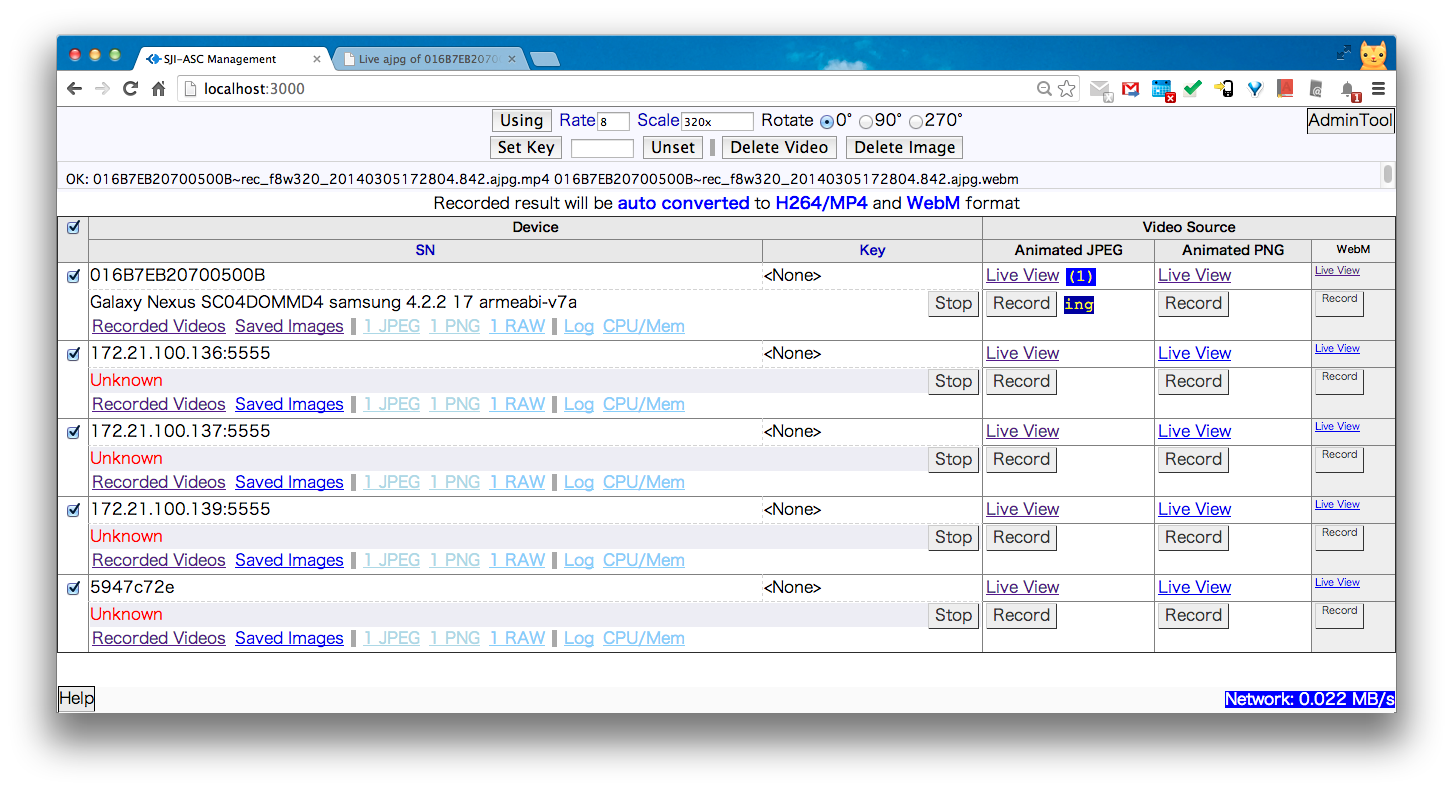
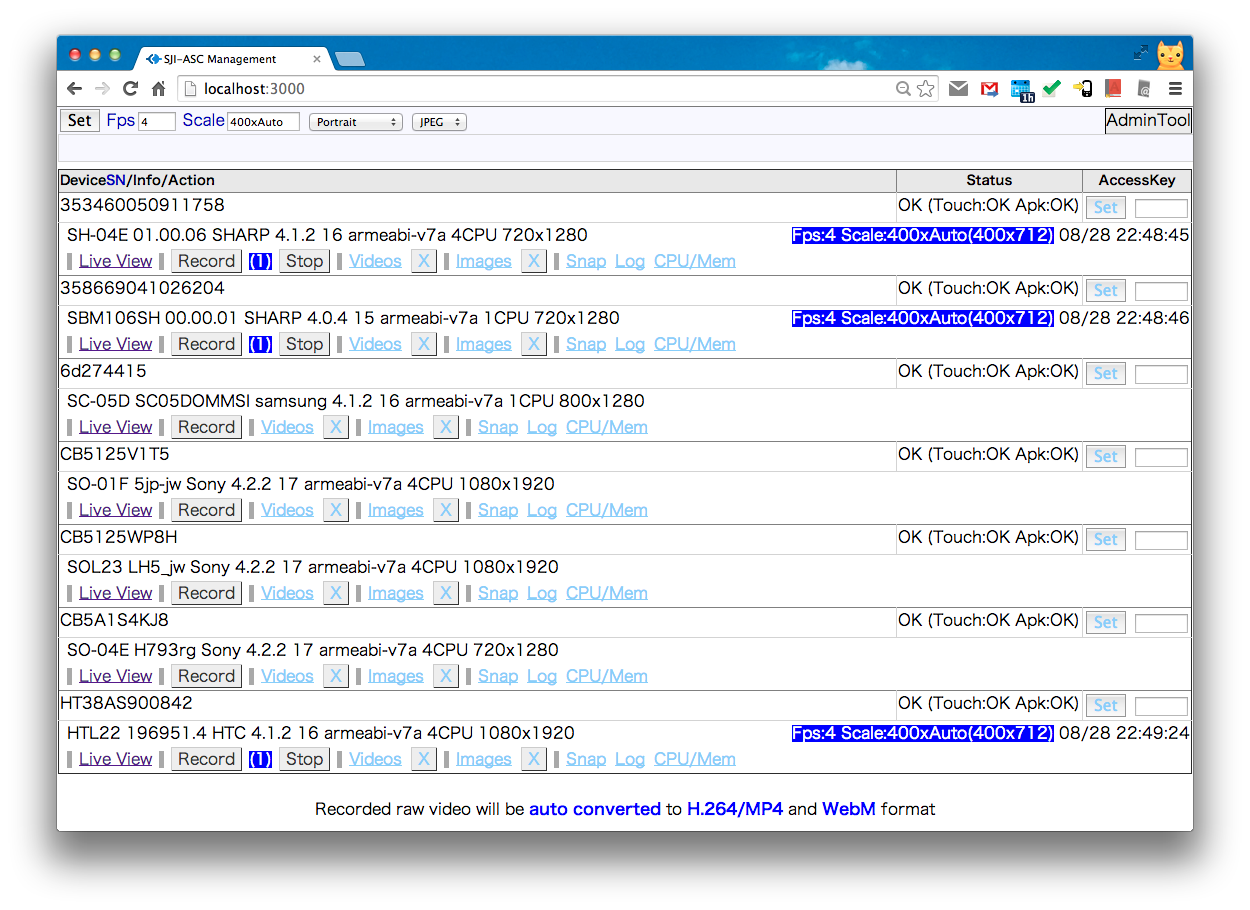
doc

Changed region(s): [[0.0312, 0.0303, 0.9672, 0.9394], [0.5928, 0.303, 0.624, 0.3333]]

diff --git a/README.md b/README.md
@@ -2,7 +2,7 @@ sji-android-screen-capture
 ==========================
 
 No-Root-Needed Android Fast Screen Capture & Caster & Recorder & Remote Controller From PC's Browser
-This project is aimed to provide a fast way to capture android screen and live view,share,record,remote control it from PC's HTML5 browser.
+This project is aimed to provide a fast way to capture android screen and view,record,remote control it from PC's HTML5 browser.
 No Root Required: You need NOT root your android device)
 It's real time (can encode 4+ frames/second for 1920x1080 screen. If shrink size to 320xauto image, can encode at 8+ frames/second). And it's low bandwidth usage (typically 150,000 bytes/second). This product will do encoding in host and android by ffmpeg. Support Chrome, Firefox, Safari. Windows/Mac/Linux/Unix
 
@@ -20,6 +20,8 @@ New: We will enhance performance to 30 frames/second full screen in about 2 mont
 
 Menu<br>
 <img src="doc/screenshot-menu.png" /><br>
+Menu(AdminTool)<br>
+<img src="doc/AdminTool.png" /><br>
 Live View<br>
 <img src="doc/liveview.png" /><br>
 Recorded Videos<br>
@@ -33,15 +35,15 @@ Recorded Videos<br>
 Install android USB driver automatically or manually when you first plug Android into PC.
 If you want to always record as H.264/MP4 or WebM video format, you need <a href="http://www.ffmpeg.org/download.html">install FFMPEG into PC</a>.
 </code></pre>
-To simplify other settings, you'd better put the directory of adb and local ffmpeg into PATH environment variable otherwise you need put the fullpath of them into "adb" and "ffmpeg" settings in stream.json file.
+To simplify other settings, you'd better put the directory of adb and local ffmpeg into PATH environment variable otherwise you need put the fullpath of them into "adb" and "ffmpeg" settings in config.json file.
 <br><br>
 2.<b>Start Android Screen Capture (include a video stream server) on PC</b>
 <pre><code>
 node dir_of_this_project/bin/stream.js
 </code></pre>
-You can edit configuration file <a href="https://raw.github.com/sjitech/sji-android-screen-capture/master/bin/stream.json">stream.json</a> to change IP, port, SSL...
+You can edit configuration file <a href="bin/config.json">config.json</a> to change IP, port, SSL...
 <br><br>
-Or you can specify your own configuration file which can be copied from config.json file in this dir.
+Or you can specify your own configuration file which can be partially copied from config.json file in this dir.
 <pre><code>
 node dir_of_this_project/bin/stream.js dir_of_your_config/myConfig.json
 </code></pre>
